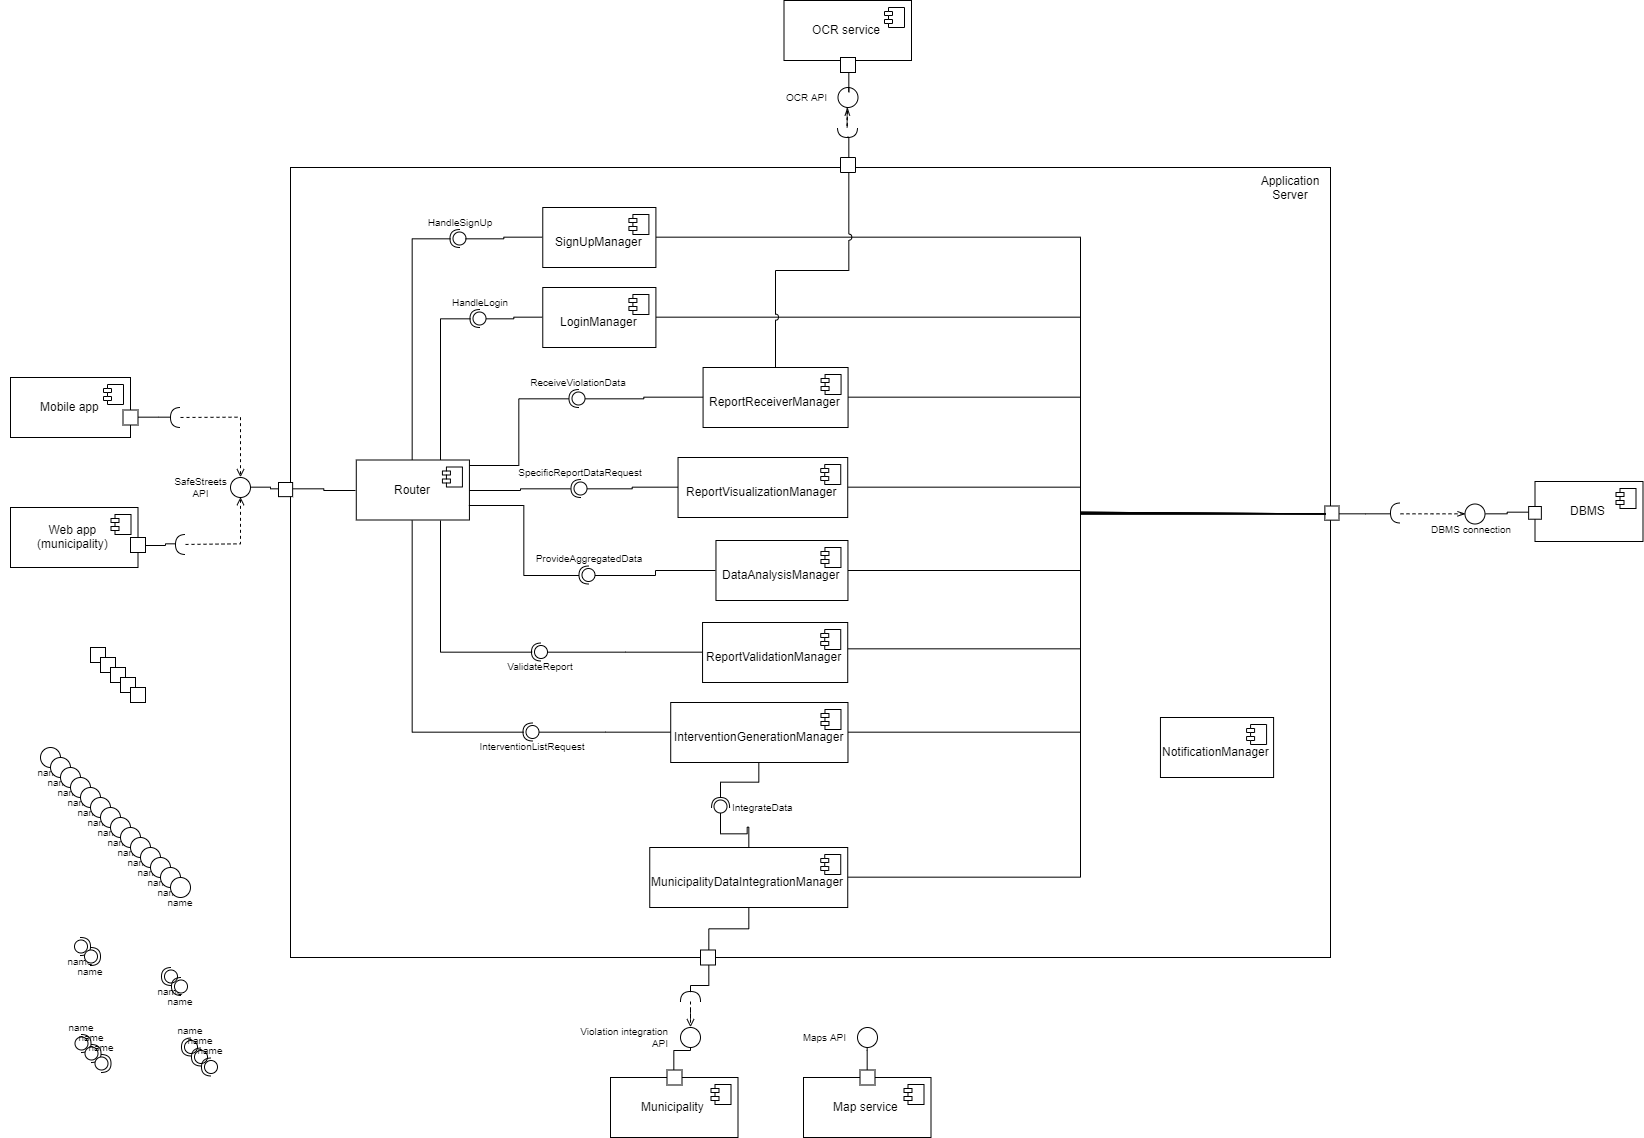
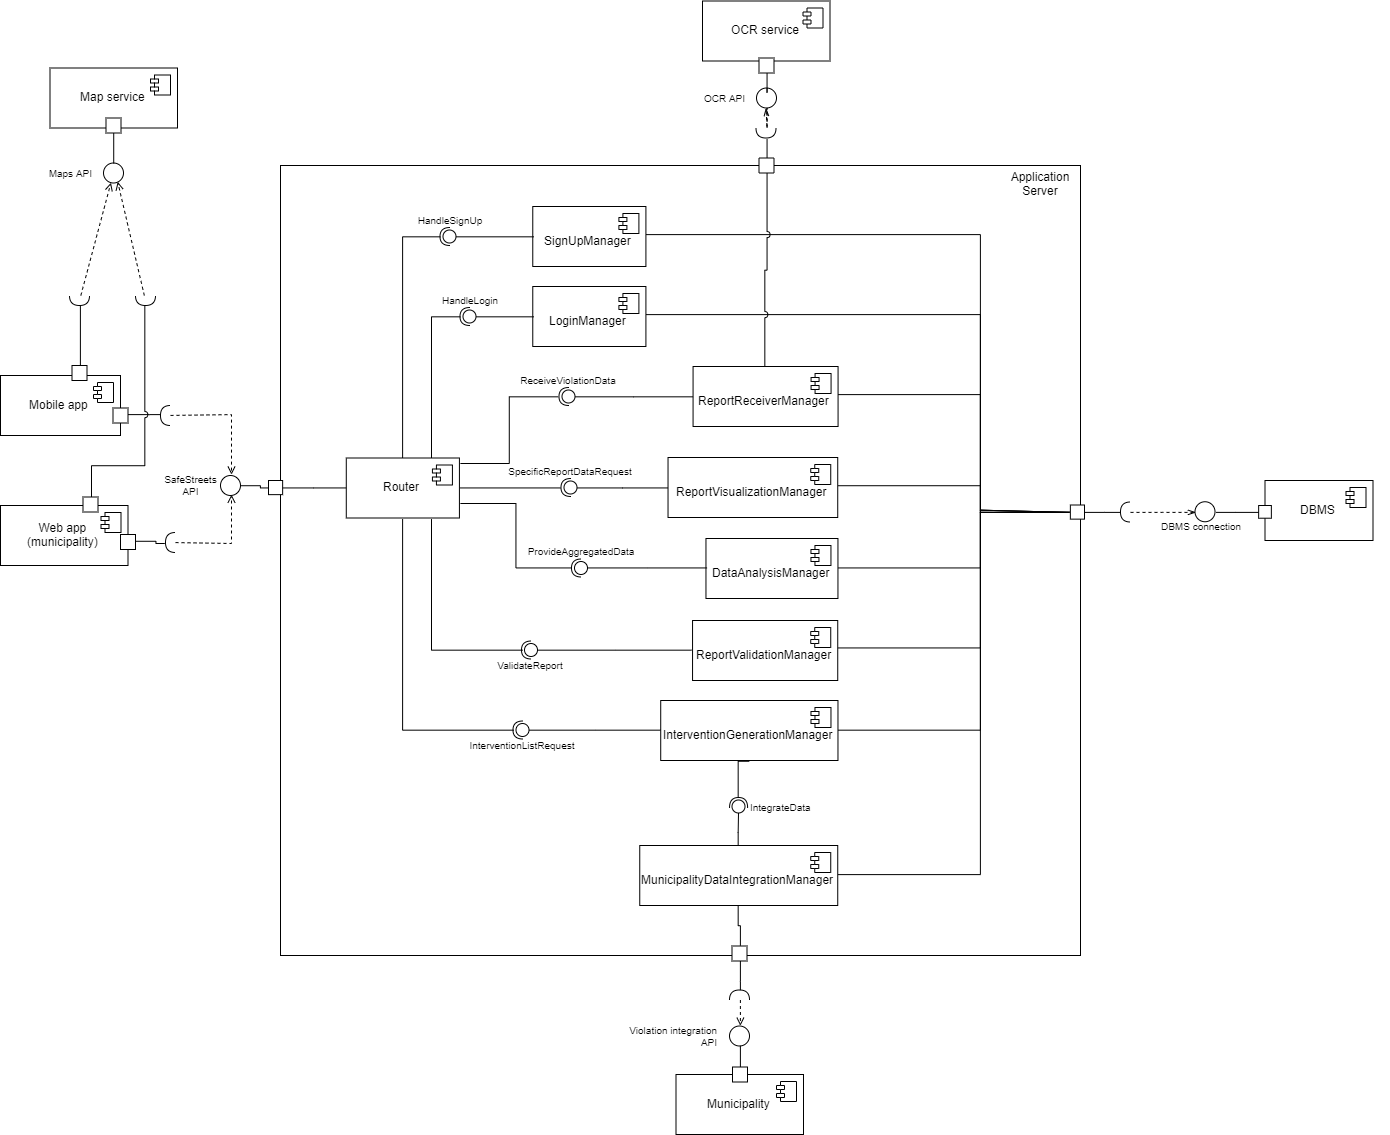
[DD] Complete components diagram
Also add data tier description in deployment part.

diff --git a/Documentation/DD/Sections/ComponentView.tex b/Documentation/DD/Sections/ComponentView.tex
@@ -27,7 +27,6 @@ Internal services:
 	\item DataAnalysisManager
 	\item InterventionGenerationManager
 	\item MunicipalityDataIntegrationManager
-	\item NotificationManager
 \end{itemize}
 
 \bigskip
@@ -68,6 +67,5 @@ Component descriptions:
 	\item \textbf{InterventionGenerationManager:}
 	module that handles municipalities' requests for generating new lists of possible interventions, targeted to provide possible solutions to the frequent violations in the most unsafe areas of their cities. Before generating the interventions, this module calls the MunicipalityDataIntegrationManager to integrate municipality data in the database, if possible. After receiving a response from the integration manager, the list of interventions will be generated. An algorithm consults all the reports present in SafeStreets database that are located in the city of the municipality that made the request, and checks for the areas with the highest density of violations. After computing the most unsafe areas of the city, the algorithm checks the type of violations recurring and from that it computes all possible interventions that can solve the problem. When all the process is finished, the result is returned to the router, in combination of a possible error raised from the MunicipalityDataIntegrationManager so that the user is aware of the fact that data integration was not possible and he could investigate the problem.
 	\item \textbf{MunicipalityDataIntegrationManager:}
-	module that allows the integration of violation data from any municipality API structured according to SafeStreets API. It is accessed by the InterventionGenerationManager when a municipality request the generation of a list of possible interventions to do in its territory. The module checks if the municipality that made the request has provided an API for accessing its data, if present in the database it requests all violation data that have a date later than the one indicated in last intervention generation timestamp (gets all data if no intervention generation was made by the municipality in the past), and integrate it in SafeStreets database. When the process is done the manager notifies the InterventionGenerationManager, that waits a response from it before initiating the intervention generation. Note that if no API is associated to municipality the integration will be immediately aborted, instead if the municipality's API endpoints or its provided data has not the structure expected the MunicipalityDataIntegrationManager will return an error to the InterventionGenerationManager, that will continue without the data integration using only data contained in SafeStreets database (the error is reported to the user in this case). 
-	\item \textbf{NotificationManager:}
+	module that allows the integration of violation data from any municipality API structured according to SafeStreets API. It is accessed by the InterventionGenerationManager when a municipality request the generation of a list of possible interventions to do in its territory. The module checks if the municipality that made the request has provided an API for accessing its data, if present in the database it requests all violation data that have a date later than the one indicated in last intervention generation timestamp (gets all data if no intervention generation was made by the municipality in the past), and integrate it in SafeStreets database. When the process is done the manager notifies the InterventionGenerationManager, that waits a response from it before initiating the intervention generation. Note that if no API is associated to municipality the integration will be immediately aborted, instead if the municipality's API endpoints or its provided data has not the structure expected the MunicipalityDataIntegrationManager will return an error to the InterventionGenerationManager, that will continue without the data integration using only data contained in SafeStreets database (the error is reported to the user in this case).
 \end{itemize}

diff --git a/Documentation/DD/Sections/DeploymentView.tex b/Documentation/DD/Sections/DeploymentView.tex
@@ -6,6 +6,6 @@ This section focuses on explaining how the system will be deployed, describing t
 
 In the presentation tier, clients devices will run mobile apps on both Android and iOS smartphones, instead personal computers can run the web application if the user has access to a municipality's account. We decided to implement mobile apps for smartphones to cover citizens and authorities needs of interacting with SafeStreets system in an easy and fast way, because both categories of users will use the apps during their normal routines and it's nowadays common to have a smartphone with you all the time. For municipality instead we choose to implement a web application because a municipality member will probably use the software in his workplace, so using a computer is optimal for the task and having a larger layout with a better level of details when retrieving data is surely an appreciated feature. A web application is preferred to a website because municipalities will be interested in data research and possible improvements of unsafe areas, so the possibility to filter content and dynamically display and retrieve data is a must. To access the web application, the only requirements is to have a web browser that supports AJAX, so no restrictive requirements are necessary for running it, making it really easy to integrate the use of the software in workflows of every municipality.
 
-In the application tier, the application server structure will be developed internally but deployed on an external hosting service, because internalize the management of an array of servers is costly and time consuming, while hosting services are nowadays quite cheap, provide assistance and externalize interventions and maintenance. The server need to provide a REST API to clients and an appropriate backend logic for handling each type of request correctly. Components used by the server are listed and explained widely in section 2.2, so we focus now on server technology. The server structure will be replicated on an array of machines, handled by a load manager for distributing the workload equally and avoid system congestion. (TODO: to continue)
+In the application tier, the application server structure will be developed internally but deployed on an external hosting service, because internalize the management of an array of servers is costly and time consuming, while hosting services are nowadays quite cheap, provide assistance and externalize interventions and maintenance. The server need to provide a REST API to clients and an appropriate backend logic for handling each type of request correctly. Components used by the server are listed and explained widely in section 2.2, so we focus now on server technology. The server structure will be replicated on an array of machines, handled by a load manager for distributing the workload equally and avoid system congestion. (TODO: explain more technologies maybe, like frameworks or environments used when we decide them)
 
-In the data tier, the database is deployed along with its DBMS.
+In the data tier, the database is deployed along with its DBMS. The database will be distributed in various instances to improve performances and improve the reliability of the storage. The database server, like application one, will be hosted on an external service because a specialized service can perform maintenance and provide high level support, avoiding SafeStreets team to worry about these topics. A relational DBMS is preferred for the system, because the data is structured and query performance is important for data analysis. The team has also more acquaintance with the SQL technology, while have never work with a noSQL DBMS. (TODO: add some references to PostgreSQL and its plugin for geospatial queries if we decide to use it)

diff --git a/Documentation/DD/Sections/EffortSpent.tex b/Documentation/DD/Sections/EffortSpent.tex
@@ -5,12 +5,12 @@ Andrea Falanti:
     Document section & Hours \\
     \hline
      Introduction & 0.25\\
-     Architectural design & 7\\
+     Architectural design & 8.5\\
      User interface design & 0\\
      Requirement traceability & 0\\
      Implementation, integration and test plan & 0\\
      \hline
-     Total & 7.25\\
+     Total & 8.75\\
      \hline
 \end{tabular}
 \vskip 0.3in
